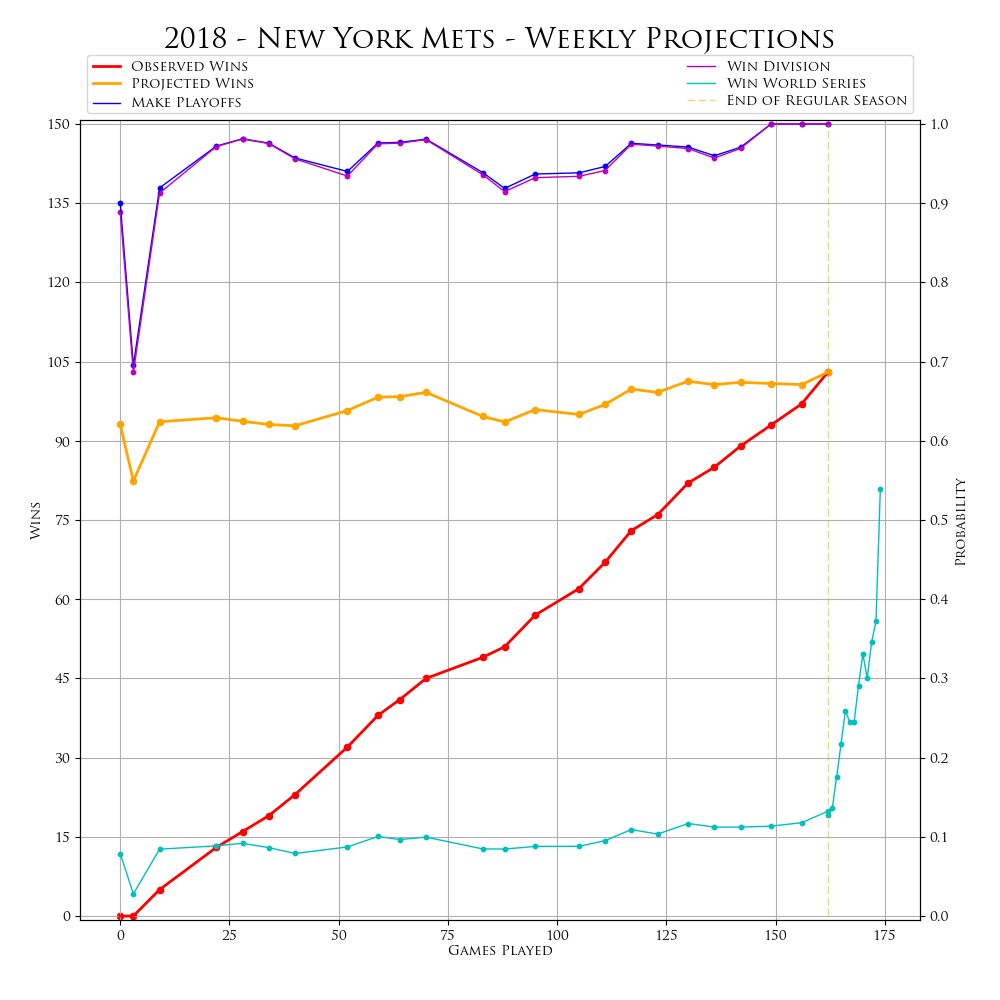
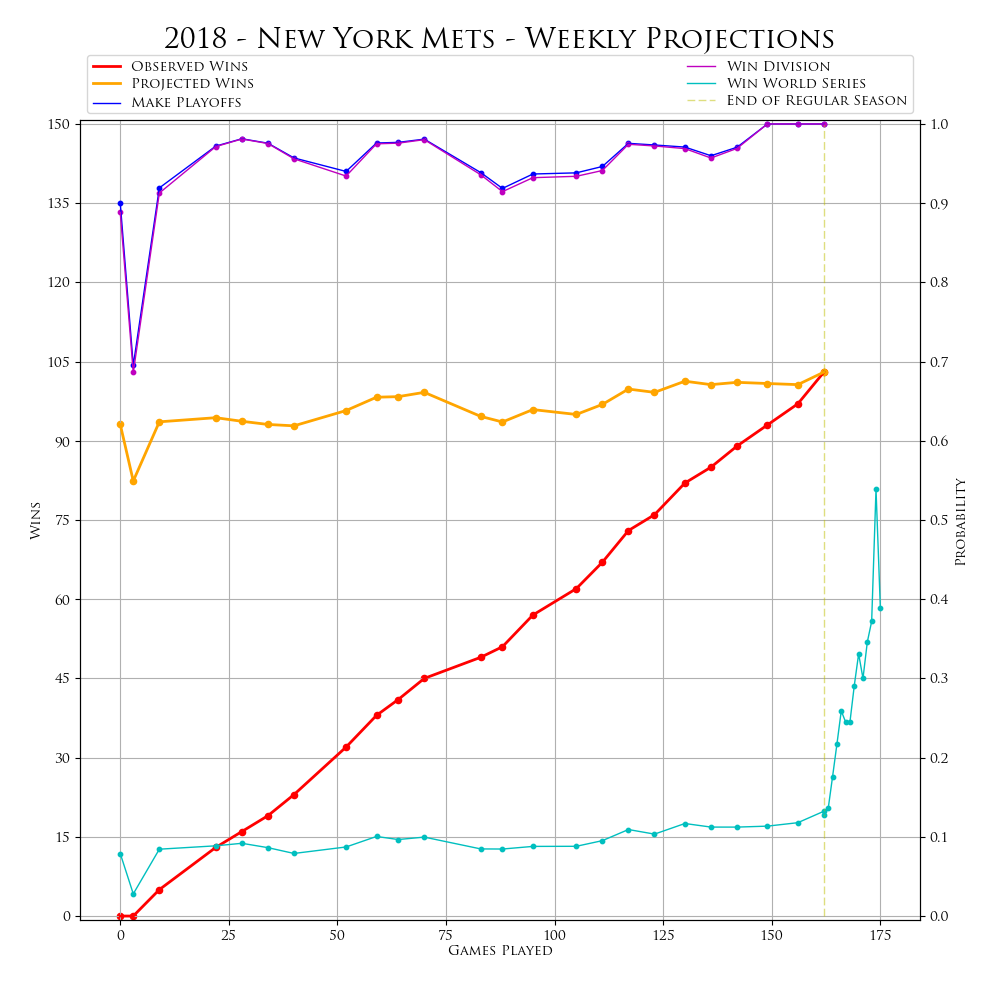
playoff NSBL update (Nov 18, 2018)

diff --git a/Tables/in_playoff_bracket.html b/Tables/in_playoff_bracket.html
@@ -255,7 +255,7 @@ c+"</h1><div>"+("function"===typeof e.message?e.message(b,h,e):e.message)+"</div
 </script>
 <script>
 		$(document).ready(function() {
-			$("#table").DataTable({"scroller":true,"dom":"Bfrtip","sScrollX":"100%","scrollY":"70vh","buttons":["copy","csv","json","print"],"paging":true,"bPaginate":false,"bLengthChange":false,"deferRender":true,"data":[["ALCS","Chicago White Sox","Tampa Bay Rays","1","4","0.0%","","","","",""],["ALCS","Tampa Bay Rays","Chicago White Sox","4","1","100.0%","","","100.0%","",""],["ALDS1","Chicago White Sox","Oakland Athletics","3","2","100.0%","","","100.0%","",""],["ALDS1","Oakland Athletics","Chicago White Sox","2","3","0.0%","","","","",""],["ALDS2","Cleveland Indians","Tampa Bay Rays","1","3","0.0%","","","","",""],["ALDS2","Tampa Bay Rays","Cleveland Indians","3","1","100.0%","","100.0%","","",""],["ALWC","Baltimore Orioles","Cleveland Indians","0","1","0.0%","","","","",""],["ALWC","Cleveland Indians","Baltimore Orioles","1","0","100.0%","","","","",""],["NLCS","Arizona Diamondbacks","New York Mets","1","4","0.0%","","","","",""],["NLCS","New York Mets","Arizona Diamondbacks","4","1","100.0%","","","100.0%","",""],["NLDS1","Chicago Cubs","New York Mets","0","3","0.0%","","","","",""],["NLDS1","New York Mets","Chicago Cubs","3","0","100.0%","100.0%","","","",""],["NLDS2","Arizona Diamondbacks","Colorado Rockies","3","0","100.0%","100.0%","","","",""],["NLDS2","Colorado Rockies","Arizona Diamondbacks","0","3","0.0%","","","","",""],["NLWC","Arizona Diamondbacks","San Diego Padres","1","0","100.0%","","","","",""],["NLWC","San Diego Padres","Arizona Diamondbacks","0","1","0.0%","","","","",""],["WS","New York Mets","Tampa Bay Rays","1","0","53.9%","","8.5%","14.3%","16.1%","15.0%"],["WS","Tampa Bay Rays","New York Mets","0","1","46.1%","","","9.8%","17.3%","19.0%"]],"sScrollXInner":"100%","columns":[{"title":"Series ID"},{"title":"Team Name"},{"title":"Opponent Name"},{"title":"Series Wins"},{"title":"Series Losses"},{"title":"Advance Probability"},{"title":"Win in 3"},{"title":"Win in 4"},{"title":"Win in 5"},{"title":"Win in 6"},{"title":"Win in 7"}],"iDisplayLength":-1});
+			$("#table").DataTable({"scroller":true,"dom":"Bfrtip","sScrollX":"100%","scrollY":"70vh","buttons":["copy","csv","json","print"],"paging":true,"bPaginate":false,"bLengthChange":false,"deferRender":true,"data":[["ALCS","Chicago White Sox","Tampa Bay Rays","1","4","0.0%","","","","",""],["ALCS","Tampa Bay Rays","Chicago White Sox","4","1","100.0%","","","100.0%","",""],["ALDS1","Chicago White Sox","Oakland Athletics","3","2","100.0%","","","100.0%","",""],["ALDS1","Oakland Athletics","Chicago White Sox","2","3","0.0%","","","","",""],["ALDS2","Cleveland Indians","Tampa Bay Rays","1","3","0.0%","","","","",""],["ALDS2","Tampa Bay Rays","Cleveland Indians","3","1","100.0%","","100.0%","","",""],["ALWC","Baltimore Orioles","Cleveland Indians","0","1","0.0%","","","","",""],["ALWC","Cleveland Indians","Baltimore Orioles","1","0","100.0%","","","","",""],["NLCS","Arizona Diamondbacks","New York Mets","1","4","0.0%","","","","",""],["NLCS","New York Mets","Arizona Diamondbacks","4","1","100.0%","","","100.0%","",""],["NLDS1","Chicago Cubs","New York Mets","0","3","0.0%","","","","",""],["NLDS1","New York Mets","Chicago Cubs","3","0","100.0%","100.0%","","","",""],["NLDS2","Arizona Diamondbacks","Colorado Rockies","3","0","100.0%","100.0%","","","",""],["NLDS2","Colorado Rockies","Arizona Diamondbacks","0","3","0.0%","","","","",""],["NLWC","Arizona Diamondbacks","San Diego Padres","1","0","100.0%","","","","",""],["NLWC","San Diego Padres","Arizona Diamondbacks","0","1","0.0%","","","","",""],["WS","New York Mets","Tampa Bay Rays","1","1","38.9%","","","8.5%","14.3%","16.1%"],["WS","Tampa Bay Rays","New York Mets","1","1","61.1%","","","17.5%","23.1%","20.4%"]],"sScrollXInner":"100%","columns":[{"title":"Series ID"},{"title":"Team Name"},{"title":"Opponent Name"},{"title":"Series Wins"},{"title":"Series Losses"},{"title":"Advance Probability"},{"title":"Win in 3"},{"title":"Win in 4"},{"title":"Win in 5"},{"title":"Win in 6"},{"title":"Win in 7"}],"iDisplayLength":-1});
 		});
 	</script>
 <style>

diff --git a/Tables/in_playoff_probabilities.html b/Tables/in_playoff_probabilities.html
@@ -227,7 +227,7 @@ c+"</h1><div>"+("function"===typeof e.message?e.message(b,h,e):e.message)+"</div
 </script>
 <script>
 		$(document).ready(function() {
-			$("#table").DataTable({"dom":"Bfrtip","sScrollX":"100%","scrollY":"70vh","buttons":["copy","csv","json","print"],"paging":true,"lengthMenu":[[-1,10,25,50],["All",10,25,50]],"data":[["Arizona Diamondbacks","0.0%","100.0%","100.0%","100.0%","100.0%","0.0%","0.0%"],["Baltimore Orioles","0.0%","100.0%","0.0%","0.0%","0.0%","0.0%","0.0%"],["Chicago Cubs","100.0%","0.0%","","100.0%","0.0%","0.0%","0.0%"],["Chicago White Sox","100.0%","0.0%","","100.0%","100.0%","0.0%","0.0%"],["Cleveland Indians","0.0%","100.0%","100.0%","100.0%","0.0%","0.0%","0.0%"],["Colorado Rockies","100.0%","0.0%","","100.0%","0.0%","0.0%","0.0%"],["New York Mets","100.0%","0.0%","","100.0%","100.0%","100.0%","53.9%"],["Oakland Athletics","100.0%","0.0%","","100.0%","0.0%","0.0%","0.0%"],["San Diego Padres","0.0%","100.0%","0.0%","0.0%","0.0%","0.0%","0.0%"],["Tampa Bay Rays","100.0%","0.0%","","100.0%","100.0%","100.0%","46.1%"]],"sScrollXInner":"100%","columns":[{"title":"Team Name"},{"title":"Win Div"},{"title":"Make Wild Card"},{"title":"Win Wild Card"},{"title":"Make LDS"},{"title":"Make LCS"},{"title":"Make WS"},{"title":"Win WS"}],"iDisplayLength":-1});
+			$("#table").DataTable({"dom":"Bfrtip","sScrollX":"100%","scrollY":"70vh","buttons":["copy","csv","json","print"],"paging":true,"lengthMenu":[[-1,10,25,50],["All",10,25,50]],"data":[["Arizona Diamondbacks","0.0%","100.0%","100.0%","100.0%","100.0%","0.0%","0.0%"],["Baltimore Orioles","0.0%","100.0%","0.0%","0.0%","0.0%","0.0%","0.0%"],["Chicago Cubs","100.0%","0.0%","","100.0%","0.0%","0.0%","0.0%"],["Chicago White Sox","100.0%","0.0%","","100.0%","100.0%","0.0%","0.0%"],["Cleveland Indians","0.0%","100.0%","100.0%","100.0%","0.0%","0.0%","0.0%"],["Colorado Rockies","100.0%","0.0%","","100.0%","0.0%","0.0%","0.0%"],["New York Mets","100.0%","0.0%","","100.0%","100.0%","100.0%","38.9%"],["Oakland Athletics","100.0%","0.0%","","100.0%","0.0%","0.0%","0.0%"],["San Diego Padres","0.0%","100.0%","0.0%","0.0%","0.0%","0.0%","0.0%"],["Tampa Bay Rays","100.0%","0.0%","","100.0%","100.0%","100.0%","61.1%"]],"sScrollXInner":"100%","columns":[{"title":"Team Name"},{"title":"Win Div"},{"title":"Make Wild Card"},{"title":"Win Wild Card"},{"title":"Make LDS"},{"title":"Make LCS"},{"title":"Make WS"},{"title":"Win WS"}],"iDisplayLength":-1});
 		});
 	</script>
 <style>
